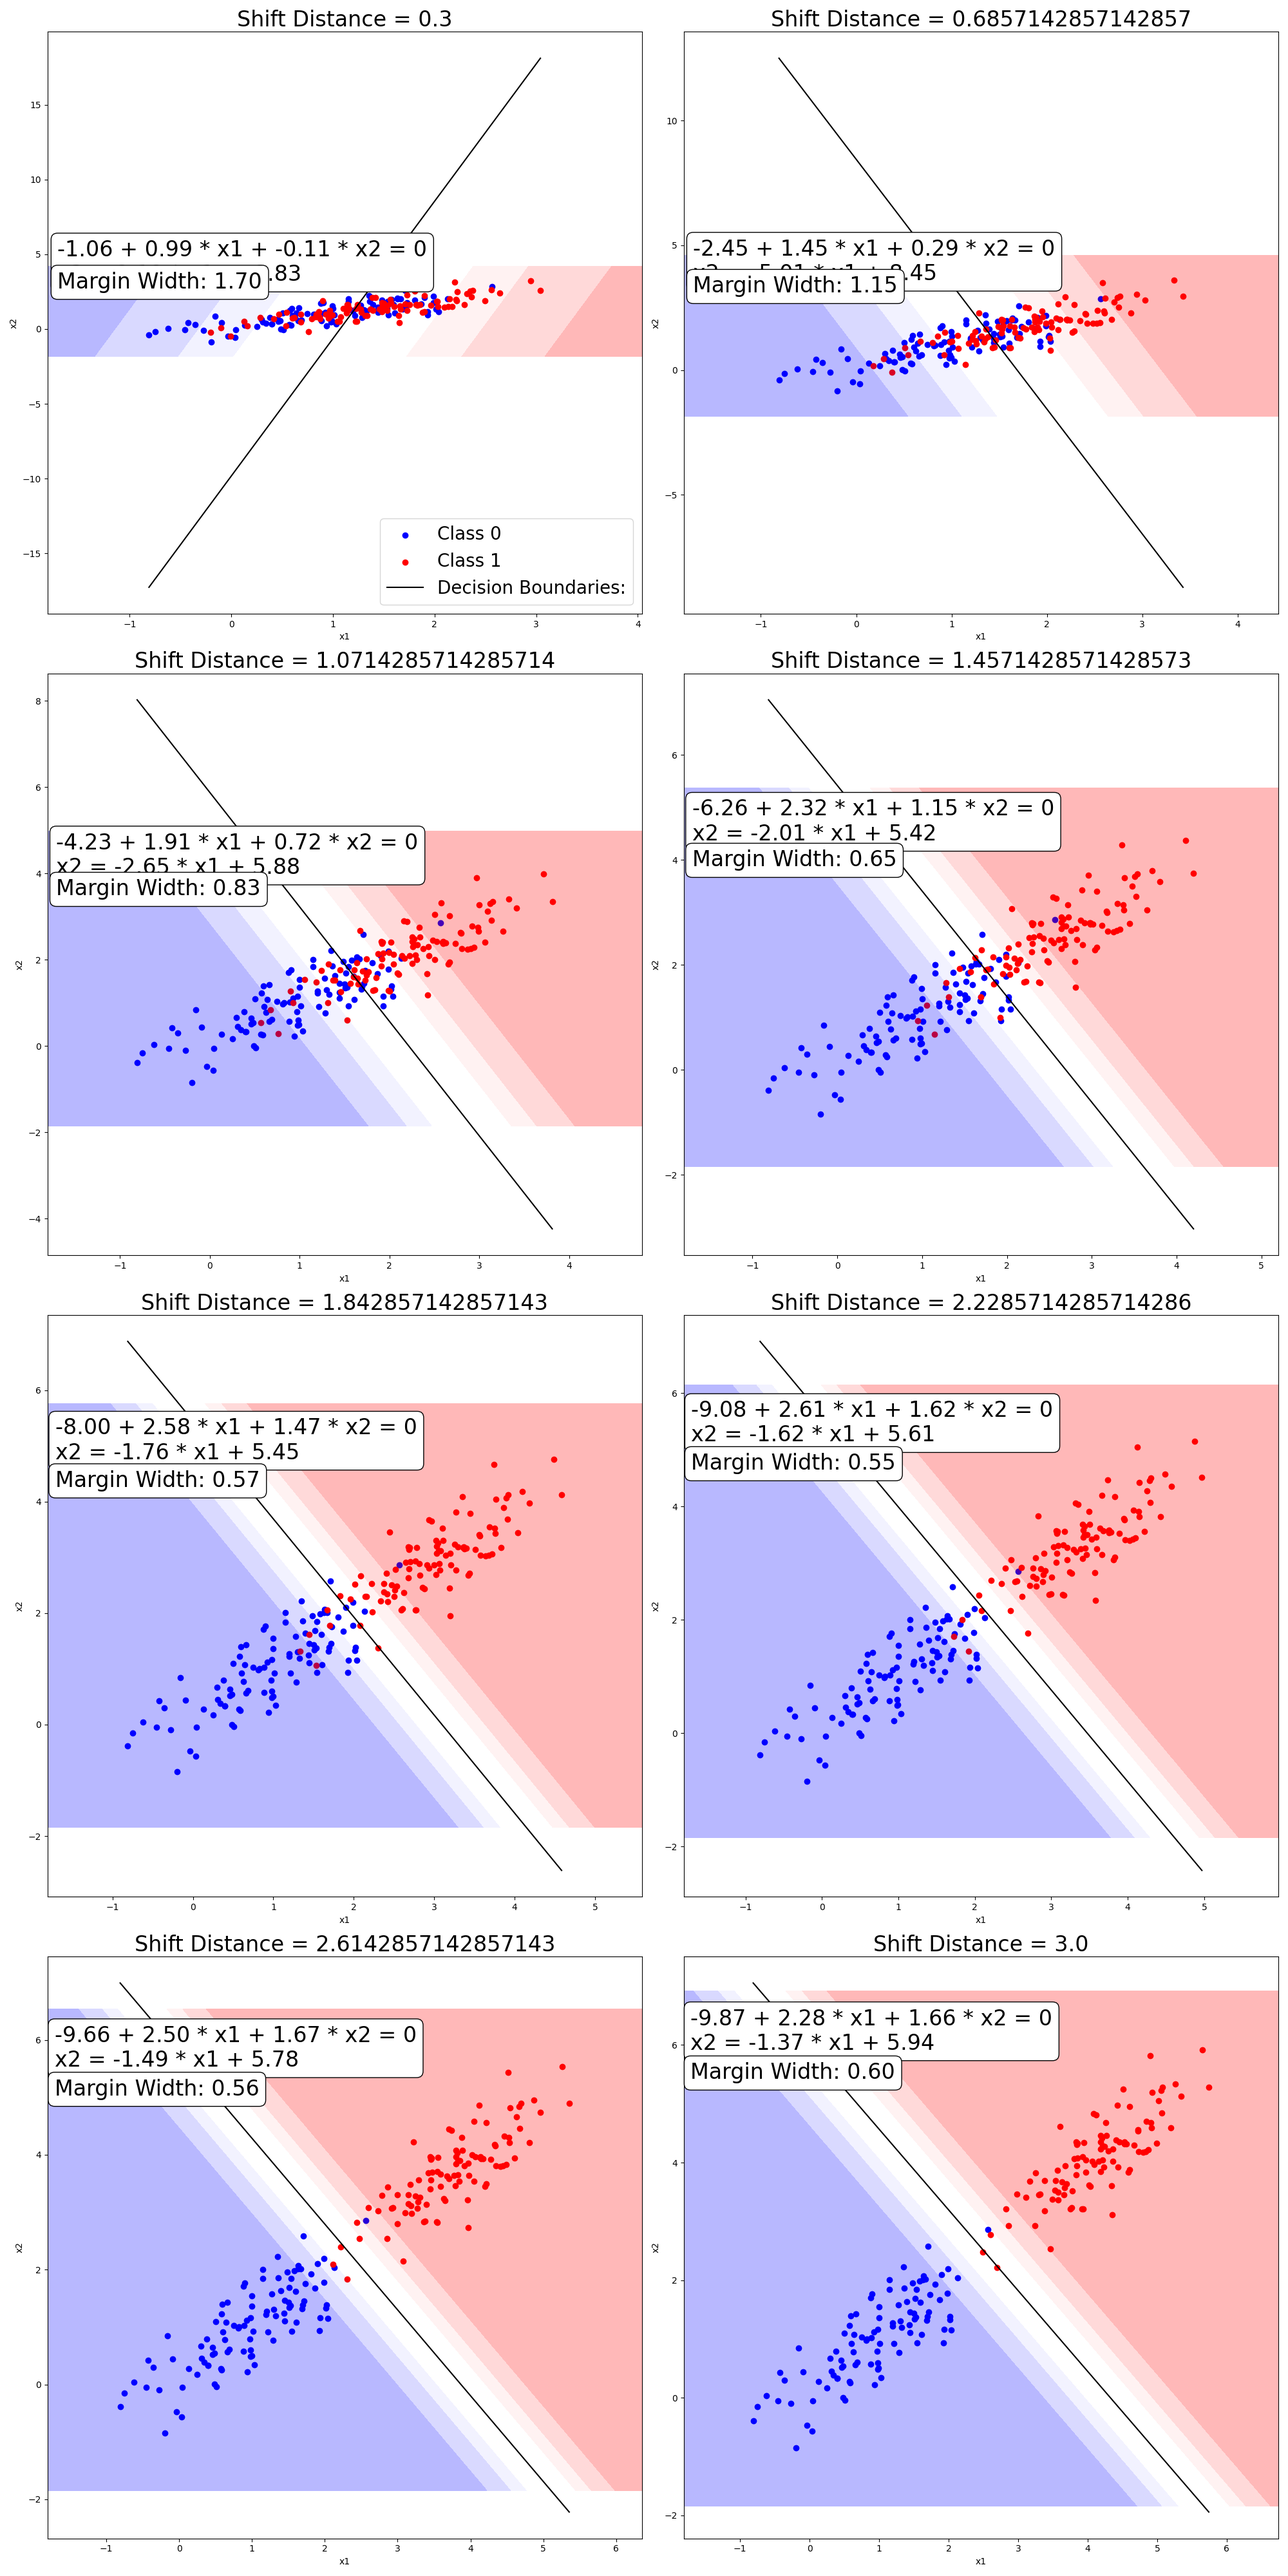
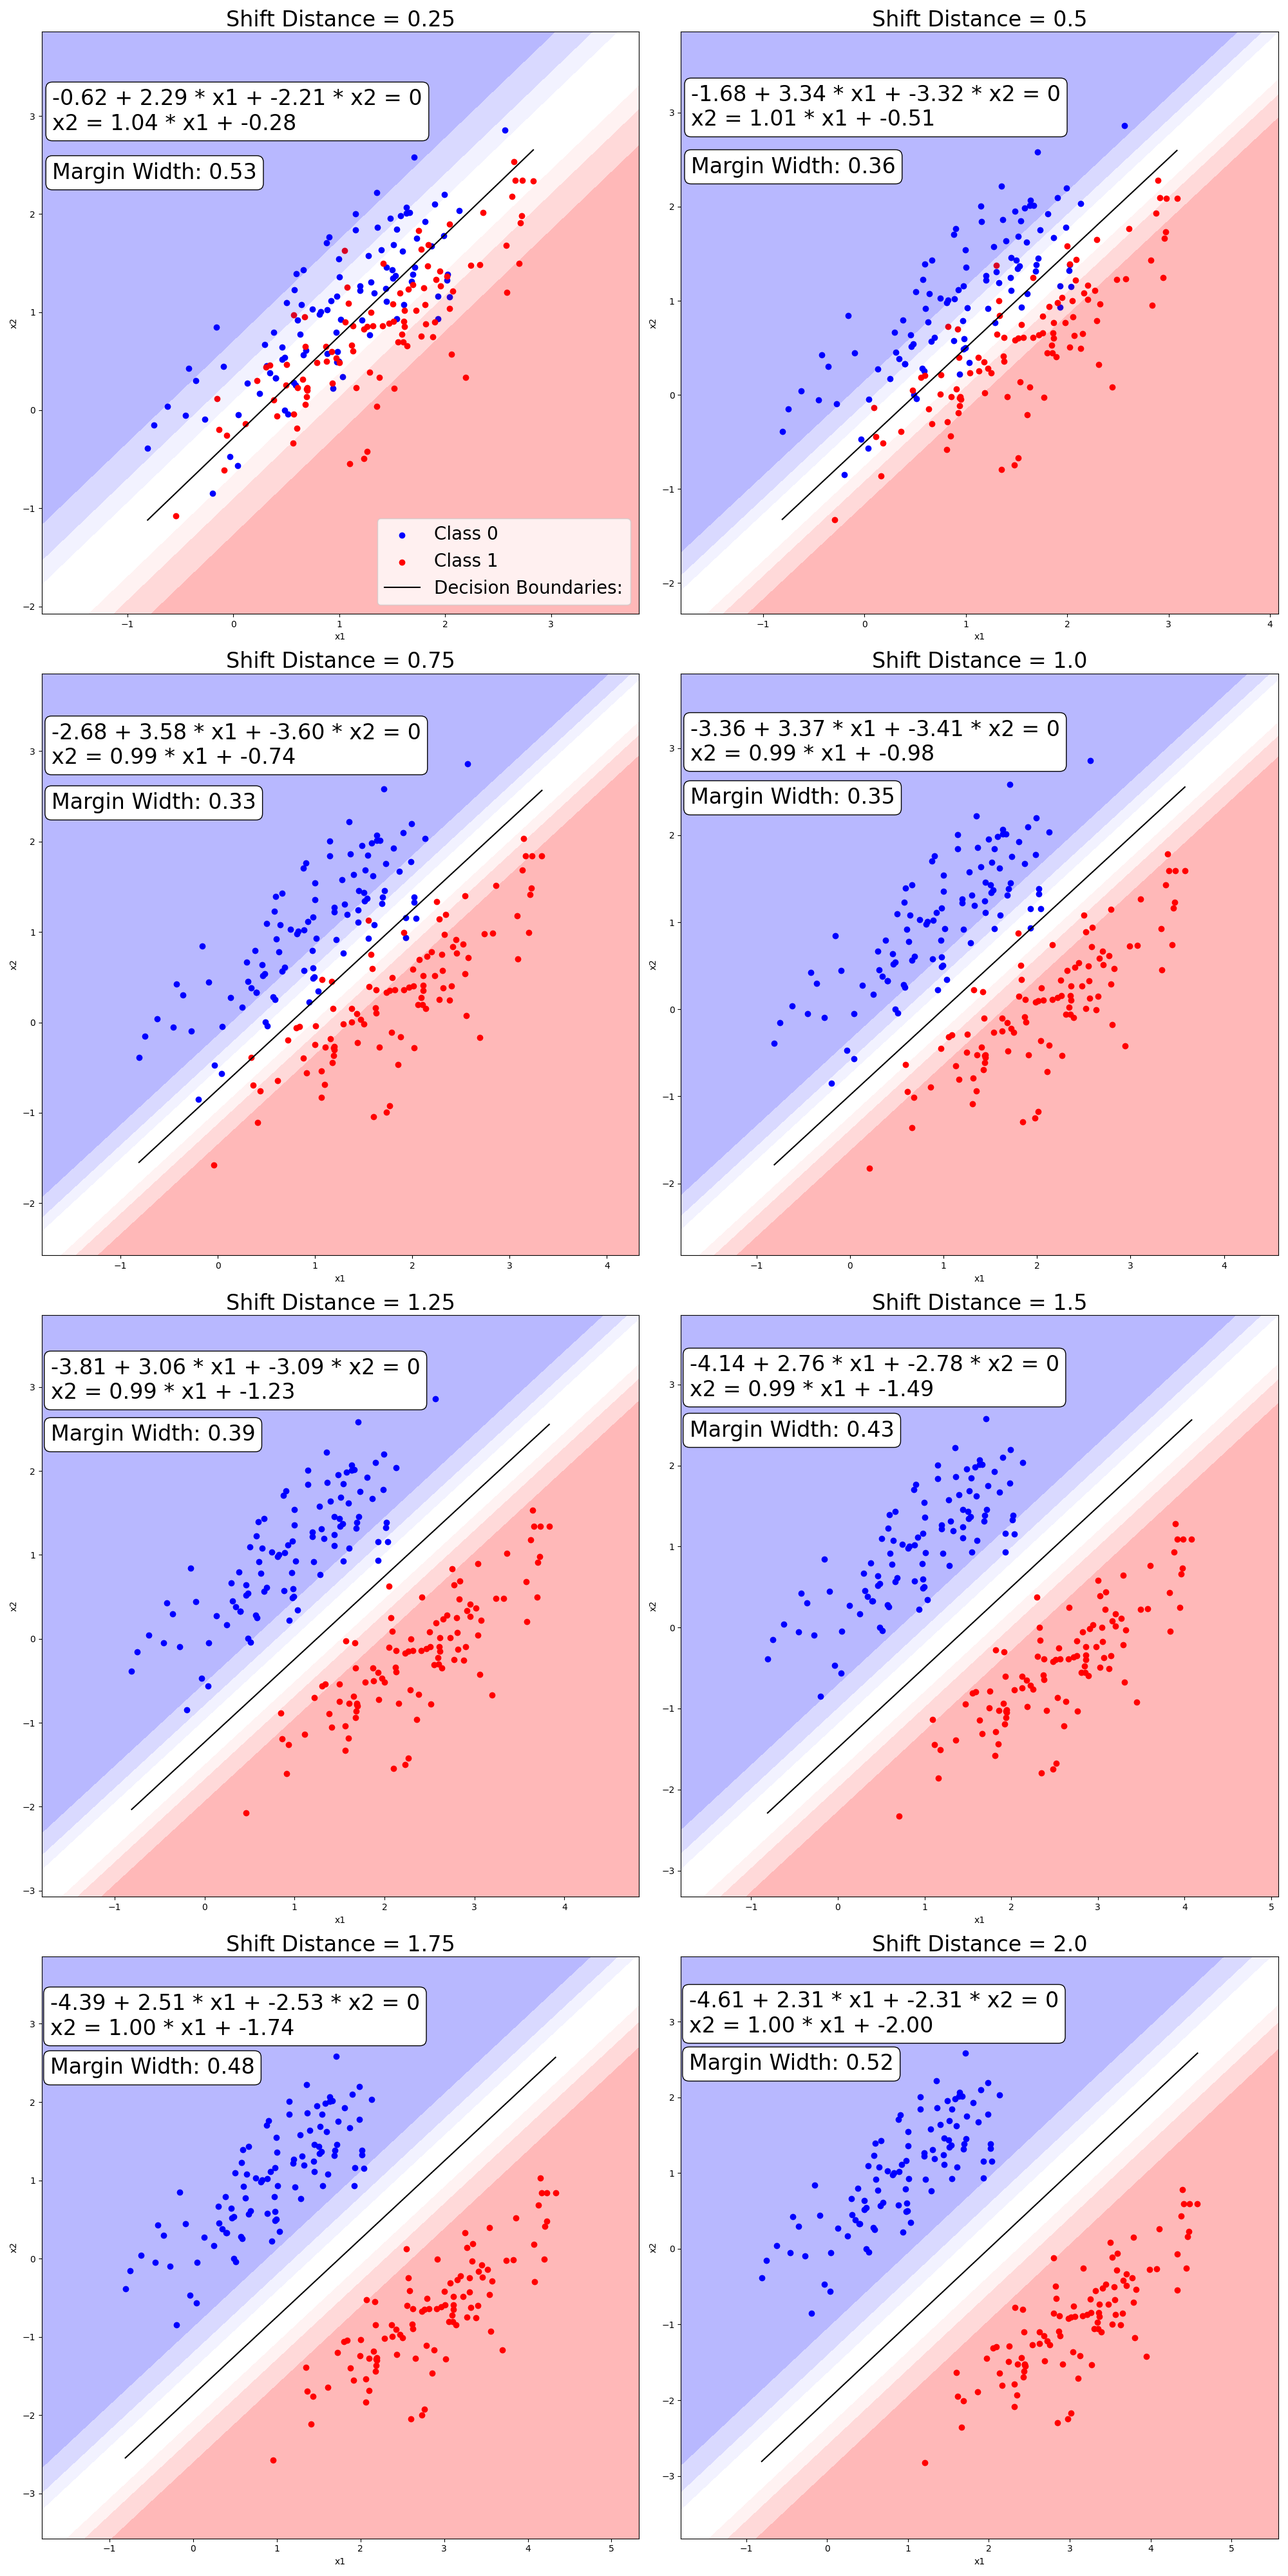
Updated logistic regression file

diff --git a/logistic_regression.py b/logistic_regression.py
@@ -18,8 +18,12 @@ def generate_ellipsoid_clusters(distance, n_samples=100, cluster_std=0.5):
     X1 = np.random.multivariate_normal(mean=[1, 1], cov=covariance_matrix, size=n_samples)
     y1 = np.zeros(n_samples)
 
-    X2 = np.random.multivariate_normal(mean=[1 + distance, 1 + distance], 
-                                        cov=covariance_matrix, size=n_samples)
+    # Generate the second cluster (class 1)
+    X2 = np.random.multivariate_normal(mean=[1, 1], cov=covariance_matrix, size=n_samples)
+    
+    # Implement: Shift the second cluster along the x-axis and y-axis for a given distance
+    X2 = np.random.multivariate_normal(mean=[1 + distance, 1 - distance], cov=covariance_matrix, size=n_samples)
+    # raise NotImplementedError("Implement the shift of the second cluster")
     y2 = np.ones(n_samples)
 
     # Combine the clusters into one dataset
